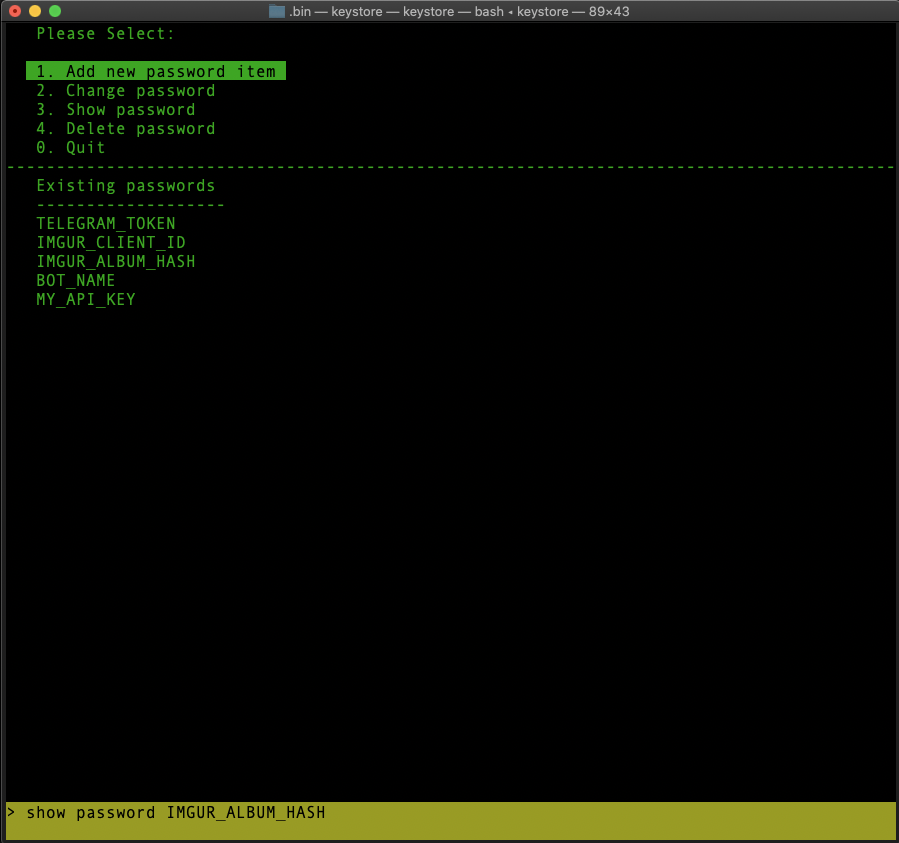
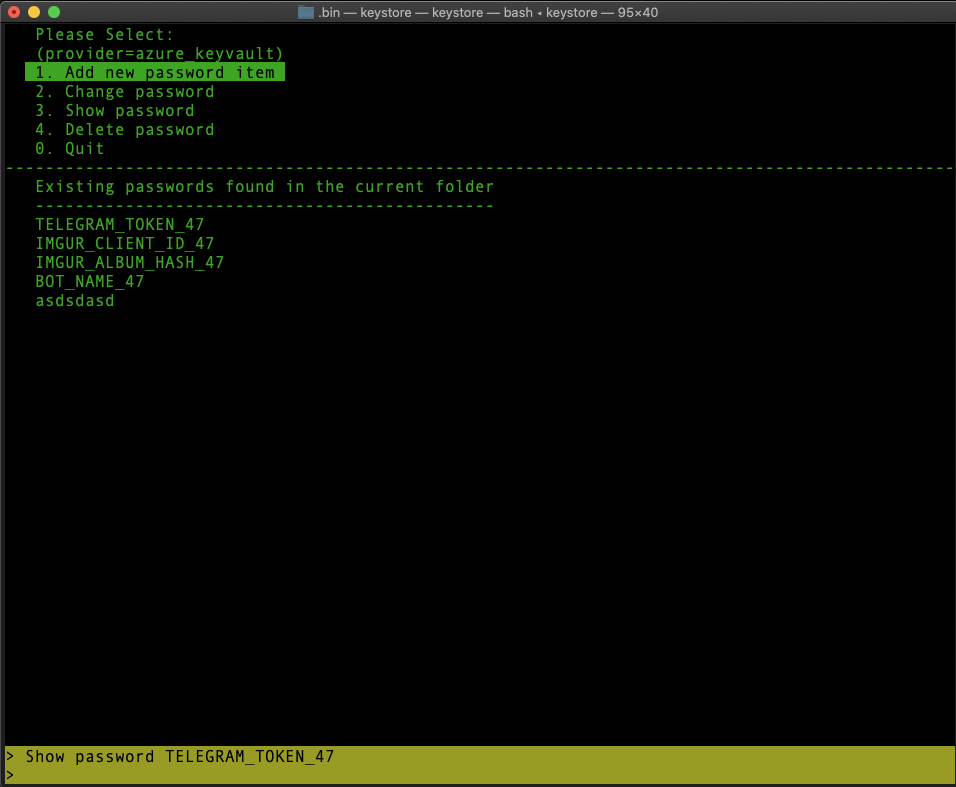
added azure key vault provider added the ability select the provider on first start

Changed region(s): [[0.0, 0.0, 1.0, 1.0]]

diff --git a/README.md b/README.md
@@ -1,7 +1,7 @@
 # app-secret-store
 
 * This is a simple command line wrapper script to manage custom app keys, secrets and passwords.  The typical use case for this tool is when you have code you need to commit to a git repo but you don't want to put your private passwords/keys in git (**and you shouldn't**).  It's easy enough to put the passwords/keys in a file that you exclude from git but now you have your important keys sitting all through your system in source code folders.  This wrapper script allows you to quickly add, change, view and delete passwords/keys from your favorite key storage system.  MacOS KeyChain 
-plugin is enabled by default but other provider plugins can be added (e.g. [BitWarden](https://bitwarden.com/), [Azure Key Vault](https://docs.microsoft.com/en-us/azure/key-vault/general/overview), or [AWS Key Management Service](https://aws.amazon.com/kms/) or any other password/key management tool that has a command line interface).
+plugin is enabled by default but other provider plugins can be added (e.g. [Azure Key Vault](https://docs.microsoft.com/en-us/azure/key-vault/general/overview), [AWS Key Management Service](https://aws.amazon.com/kms/) or any other password/key management tool that has a command line interface).
 
 * Make sure the keystore file is your PATH or symlink it to a file in your PATH. Also make sure 
 to copy the lib sub-folder as well.  
@@ -9,9 +9,16 @@ to copy the lib sub-folder as well.
 * Can be run from the command line e.g. ```keystore add MYKEYNAME MYPASSWORD``` or run from the menu system
 by running just ```keystore``` with no parameters.
 
-* Running the keystore menu system will look for a .keystore file in the folder its run from.  If it's not there it will create an empty one.  This file contains the password variable names you want to manage for the project located in this folder.
+* Running the keystore menu system will look for a .keystore.keys file in the folder its run from.  If it's not there it will create an empty one.  This file contains the password variable names you want to manage for the project located in this folder.
+
+* Running the keystore menu system the first time from a given folder will prompt you to choose the key store provider plugin.  The provider plugin can be changed any time after initial run by editing the .keystore.config file in the project home folder.
+
 
 * For [Z shell](https://en.wikipedia.org/wiki/Z_shell) users there is an autocompletions file included.  Make sure to copy the _keystore file to your $ZSH_COMPLETIONS_DIR directory.
+
+* To use the [Azure Key Vault](https://docs.microsoft.com/en-us/azure/key-vault/general/basic-concepts) provider set the following variables in the _keystore.config file in your home folder.  Also, its assumed you've already created an [Azure Key Vault](https://docs.microsoft.com/en-us/azure/key-vault/general/basic-concepts) and that you've installed the [Azure cli](https://docs.microsoft.com/en-us/cli/azure/install-azure-cli?view=azure-cli-latest) and performed an ```az login```.
+```provider="azure_keyvault"```  
+```azure_vault_name="MY-VAULT-NAME-HERE"```
 
 ![keystore screenshot](images/shreenshot1.png "keystore screenshot")
 
